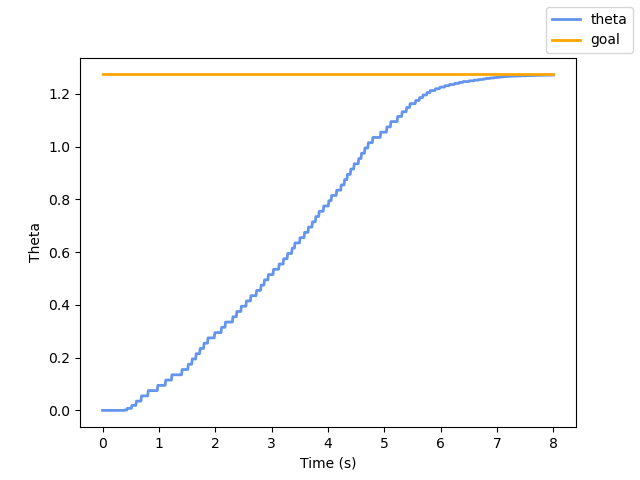
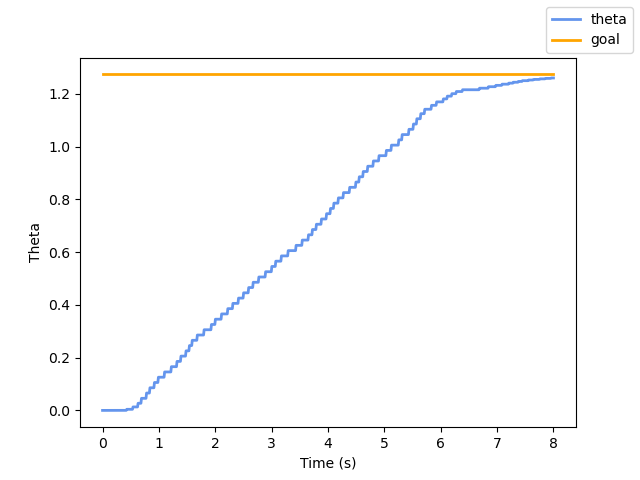
p3

Changed region(s): [[0.1875, 0.1562, 0.875, 0.875]]

diff --git a/aa274a/src/autonomy_repo/scripts/p3_plot.py b/aa274a/src/autonomy_repo/scripts/p3_plot.py
@@ -44,6 +44,7 @@ class PlottingNode(Node):
             self.angles.append(wrap_angle(msg.theta))
         else:
             if not self.plotted:
+                self.print_stats()  # Added
                 self.plot()
                 self.plotted = True
 
@@ -72,6 +73,28 @@ class PlottingNode(Node):
             print(f"Successfully plotted to {filename.absolute()}")
             print("Close this node with CTRL+C!")
         plt.close(fig)
+        
+    # Added
+    def print_stats(self):
+        angles = np.array(self.angles)
+        error = np.abs(angles - self.goal)
+
+        tau = 0.05
+        threshold = tau * abs(error[0])
+        idx_threshold = np.where(error <= threshold)[0]
+        
+        time = np.linspace(0, self.total_msg_cnt / 100, num=len(self.angles))
+
+        if len(idx_threshold) > 0:
+            idx = idx_threshold[0]
+            print(f"From initial angle of {angles[0]} to goal of {self.goal}")
+            print(f"First {tau * 100:.0f}% threshold crossing: {time[idx]:.3f} s")
+            
+            
+        else:
+            print(f"Never crossed {tau * 100:.0f}% threshold")
+        
+            
 
 
 if __name__ == "__main__":
